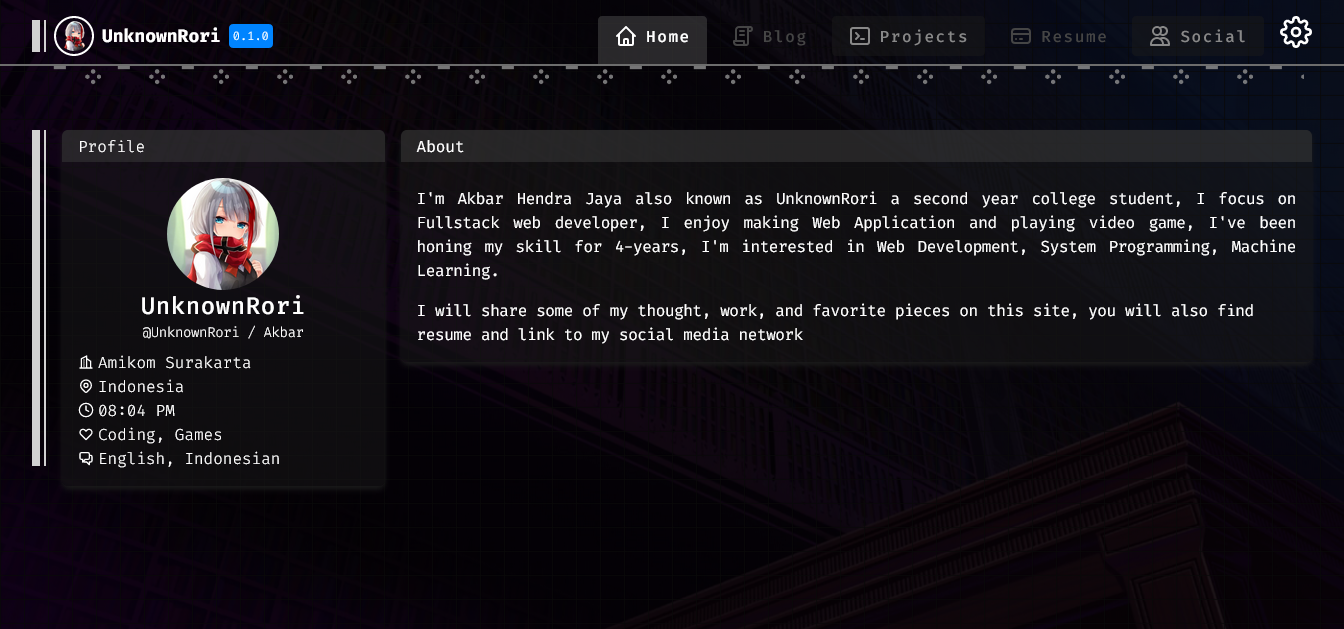
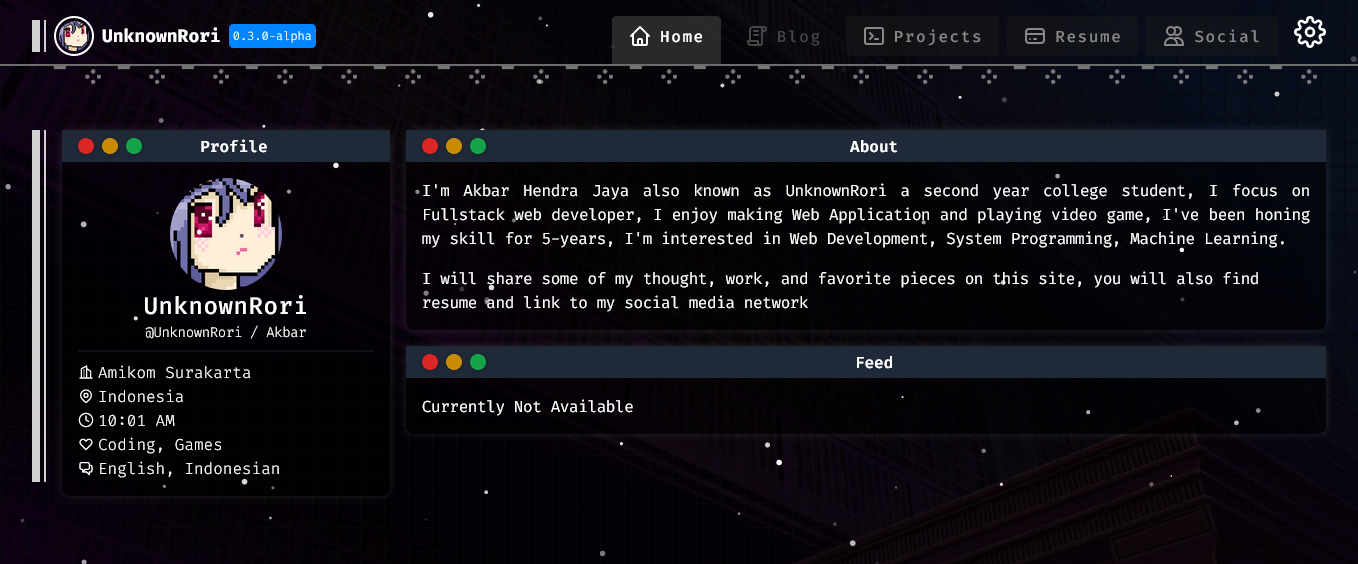
📦 scaffold resume and change card

diff --git a/components/Navigation/BarVue.vue b/components/Navigation/BarVue.vue
@@ -12,43 +12,27 @@ const routes = [
   { title: "Home", icon: HomeIcon, href: "/" },
   { title: "Blog", icon: ScrollIcon, disabled: true, href: "/blog" },
   { title: "Projects", icon: TerminalIcon, href: "/projects" },
-  { title: "Resume", icon: IDCardIcon, disabled: true, href: "/resume" },
+  { title: "Resume", icon: IDCardIcon, href: "/resume" },
   { title: "Social", icon: PeopleIcon, href: "/social" },
 ];
 </script>
 
 <template>
   <nav
-    class="m-0 mt-4 flex flex-row items-start justify-between gap-4 border-b-2 border-cod-gray-500 px-8 sm:py-2 md:py-0"
-  >
+    class="m-0 mt-4 flex flex-row items-start justify-between gap-4 border-b-2 border-cod-gray-500 px-8 sm:py-2 md:py-0">
     <header class="flex items-center gap-2">
-      <div
-        class="border-l-8 border-r-2 border-cod-gray-200 px-[2px] py-4"
-      ></div>
-      <NuxtImg
-        src="/image/icon.webp"
-        width="200"
-        class="h-10 w-10 rounded-full border-2 border-white object-cover p-[0.2rem]"
-        placeholder
-      />
+      <div class="border-l-8 border-r-2 border-cod-gray-200 px-[2px] py-4"></div>
+      <NuxtImg src="/image/icon.webp" width="200"
+        class="h-10 w-10 rounded-full border-2 border-white object-cover p-[0.2rem]" placeholder />
       <h1 class="text-lg font-bold antialiased">UnknownRori</h1>
-      <IconBadgeVue
-        class="justify-start text-xs font-light sm:block md:hidden xl:block"
-      >
+      <IconBadgeVue class="justify-start text-xs font-light">
         {{ version }}
       </IconBadgeVue>
     </header>
 
-    <IconHamburgerVue
-      class="md:hidden"
-      :is-open="openNavbar"
-      @click="openNavbar = !openNavbar"
-    />
-    <div
-      :class="`z-20 flex gap-4 transition-transform duration-500 sm:absolute sm:-left-[100vw] sm:top-14 sm:w-full sm:flex-col sm:items-start sm:bg-black sm:bg-opacity-90 sm:p-4 md:relative md:left-0 md:top-0 md:w-auto md:translate-x-0 md:flex-row md:bg-transparent md:p-0 ${
-        openNavbar ? 'sm:translate-x-[100vw]' : ''
-      }`"
-    >
+    <IconHamburgerVue class="md:hidden" :is-open="openNavbar" @click="openNavbar = !openNavbar" />
+    <div :class="`z-20 flex gap-4 transition-transform duration-500 sm:absolute sm:-left-[100vw] sm:top-14 sm:w-full sm:flex-col sm:items-start sm:bg-black sm:bg-opacity-90 sm:p-4 md:relative md:left-0 md:top-0 md:w-auto md:translate-x-0 md:flex-row md:bg-transparent md:p-0 ${openNavbar ? 'sm:translate-x-[100vw]' : ''
+      }`">
       <NavigationListVue :links="routes" />
       <ClientSettingsVue />
     </div>

diff --git a/pages/index.vue b/pages/index.vue
@@ -18,13 +18,7 @@ const experienceYear = new Date().getUTCFullYear() - 2019;
       class="animate-l-border-start border-l-8 border-r-2 border-cod-gray-200 px-[2px] duration-1000 sm:hidden xl:block">
     </div>
     <section>
-      <CardVue class="flex flex-col justify-center bg-opacity-50 font-light sm:w-full xl:w-[24vw]">
-        <div class="group relative rounded-t-md bg-cod-gray-900 bg-opacity-50 px-4 py-1">
-          <div
-            class="absolute left-0 top-0 h-full w-0 rounded-t-md bg-cod-gray-800 transition-all duration-500 group-hover:w-full">
-          </div>
-          <span class="relative">Profile</span>
-        </div>
+      <WindowCard title="Profile" class="flex flex-col justify-center font-light sm:w-full xl:w-[24vw]">
         <div class="flex flex-col gap-2 p-4">
           <figure class="flex flex-col items-center">
             <NuxtImg src="/image/UnknownRori.webp" sizes="sm:30vw md:25vw lg:300px"
@@ -58,17 +52,11 @@ const experienceYear = new Date().getUTCFullYear() - 2019;
             </span>
           </div>
         </div>
-      </CardVue>
+      </WindowCard>
     </section>
 
     <section class="flex flex-col gap-4">
-      <CardVue class="flex flex-col gap-2 bg-opacity-50">
-        <div class="group relative rounded-t-md bg-cod-gray-900 bg-opacity-50 px-4 py-1">
-          <div
-            class="absolute left-0 top-0 z-0 h-full w-0 rounded-t-md bg-cod-gray-800 transition-all duration-1000 group-hover:w-full">
-          </div>
-          <span class="relative z-10">About</span>
-        </div>
+      <WindowCard title="About">
         <main class="flex flex-col gap-4 p-4 tracking-tight">
           <p class="text-justify">
             I'm Akbar Hendra Jaya also known as UnknownRori a second year
@@ -83,7 +71,13 @@ const experienceYear = new Date().getUTCFullYear() - 2019;
             site, you will also find resume and link to my social media network
           </p>
         </main>
-      </CardVue>
+      </WindowCard>
+
+      <WindowCard title="Feed">
+        <main class="flex flex-col gap-4 p-4 tracking-tight">
+          Currently Not Available
+        </main>
+      </WindowCard>
     </section>
   </div>
 </template>

diff --git a/assets/css/scroll.css b/assets/css/scroll.css
@@ -1,9 +1,20 @@
 :root {
-  --scroll-thumb: rgb(100, 100, 100);
-  --scroll-bg: rgb(30, 30, 30);
+  --scroll-opacity: 0.50;
 
-  scrollbar-color: var(--scroll-thumb) var(--scroll-bg) !important;
+  scrollbar-color: rgba(221, 221, 221, var(--scroll-opacity)) rgba(58, 58, 58, var(--scroll-scroll-opacity)) !important;
   scrollbar-width: thin !important;
+  /* scrollbar-face-color: lightblue; /* background color (Firefox 63 only) */
+  /* scrollbar-track-color: lightgrey; /* thumb/slider color (Firefox 63 only) */
+
+  /* background color [1. color] // thumb/slider color [2. color] (Firefox 64+) *********/
+  /* scrollbar-color: lightblue lightgrey; */
+
+  /* size/width *************************************************************************/
+  /*	scrollbar-width: auto; = default OS scrollbars
+		scrollbar-width: thin; = small scrollbars without buttons
+		scrollbar-width: none; = scrollbars are hidden
+		scrollbar-width: 17px; (not working yet, but might be supported in the future)  */
+  /* scrollbar-width: thin; */
 }
 
 ::-webkit-scrollbar {
@@ -11,13 +22,13 @@
 }
 
 ::-webkit-scrollbar-track {
-  background: var(--scroll-thumb);
+  background: rgba(221, 221, 221, var(--scroll-opacity));
 }
 
 ::-webkit-scrollbar-thumb {
-  background: var(--scroll-thumb);
+  background: rgba(46, 54, 69, var(--scroll-opacity));
 }
 
 ::-webkit-scrollbar-thumb:hover {
-  background: var(--scroll-bg);
+  background: rgba(58, 58, 58, var(--scroll-opacity));
 }

diff --git a/pages/raw/resume.vue b/pages/raw/resume.vue
@@ -1,0 +1,21 @@
+<script setup lang="ts">
+const route = useRoute();
+const isInfo = ref(("info" in route.query && route.query.info === "false"));
+</script>
+
+<template>
+  <div class="m-0 flex min-h-screen w-full flex-col bg-gray-950 p-0 text-white">
+    <div class="m-8 flex flex-col items-center gap-4">
+      <header v-if="!isInfo" class="text-gray-200 text-md sm:w-full md:w-[80%]">
+        This page is designed to be printable on a single Letter format page!
+        Some personal informations may have been redacted, but my contact
+        informations are available on my <a href="/" class="text-blue-400 underline">portfolio</a>
+      </header>
+      <main class="bg-white w-[210mm] border-[1px] border-gray-300 m-4 text-black">
+        <div class="p-[10mm]">
+          Resume is in development
+        </div>
+      </main>
+    </div>
+  </div>
+</template>

diff --git a/components/WindowCard.vue b/components/WindowCard.vue
@@ -1,0 +1,23 @@
+<script setup lang="ts">
+defineProps<{
+  title: string;
+}>();
+</script>
+
+<template>
+  <div class="shadow-neon-sm hover:shadow-neon-md duration-500 flex w-full flex-col rounded-lg bg-opacity-50 bg-black">
+    <header class="relative flex flex-row bg-gray-800 p-2">
+      <div class="mx-2 flex items-center justify-center gap-2">
+        <button class="size-4 rounded-full bg-red-600 shadow"></button>
+        <button class="size-4 rounded-full bg-yellow-600 shadow"></button>
+        <button class="size-4 rounded-full bg-green-600 shadow"></button>
+      </div>
+      <h3 class="absolute w-full -translate-y-1 text-center font-semibold  pointer-events-none">
+        {{ title }}
+      </h3>
+    </header>
+    <div class="w-full h-full">
+      <slot />
+    </div>
+  </div>
+</template>

diff --git a/app.vue b/app.vue
@@ -1,17 +1,21 @@
 <script setup lang="ts">
 const isDummyLoadingDone = ref(false);
+const route = useRoute();
+const isRaw = ref("raw" in route.query && route.query.raw === "true");
 </script>
 
 <template>
-  <LoadingScreenVue :show="!isDummyLoadingDone" @done="isDummyLoadingDone = true" />
+  <LoadingScreenVue v-if="!isRaw" :show="!isDummyLoadingDone" @done="isDummyLoadingDone = true" />
 
-  <Transition>
+  <Transition v-if="!isRaw">
     <NuxtLayout name="default-layout">
       <main v-show="isDummyLoadingDone" class="h-full">
         <NuxtPage />
       </main>
     </NuxtLayout>
   </Transition>
+
+  <NuxtPage v-if="isRaw" />
 </template>
 
 <style>

diff --git a/tailwind.config.js b/tailwind.config.js
@@ -69,6 +69,10 @@ module.exports = {
         background: "#111010",
         text: "#ffffff",
       },
+      boxShadow: {
+        'neon-sm': '0px 0px 8px 0px rgba(151, 151, 151, 0.2)',
+        'neon-md': '0px 0px 12px 1px rgba(151, 151, 151, 0.8)',
+      }
     },
     plugins: [],
   },

diff --git a/pages/resume.vue b/pages/resume.vue
@@ -1,0 +1,7 @@
+<template>
+  <div class="m-8 gap-4 h-full">
+    <WindowCard title="Resume" class="h-full">
+      <iframe src="/raw/resume?raw=true&info=false" frameborder="0" class="min-h-[68vh] w-full"></iframe>
+    </WindowCard>
+  </div>
+</template>

diff --git a/composables/useVersion.ts b/composables/useVersion.ts
@@ -1,4 +1,4 @@
 // TODO : Maybe extract this so it's imported everywhere, why use composable
 export default function () {
-  return "0.2.2";
+  return "0.3.0-alpha";
 }
